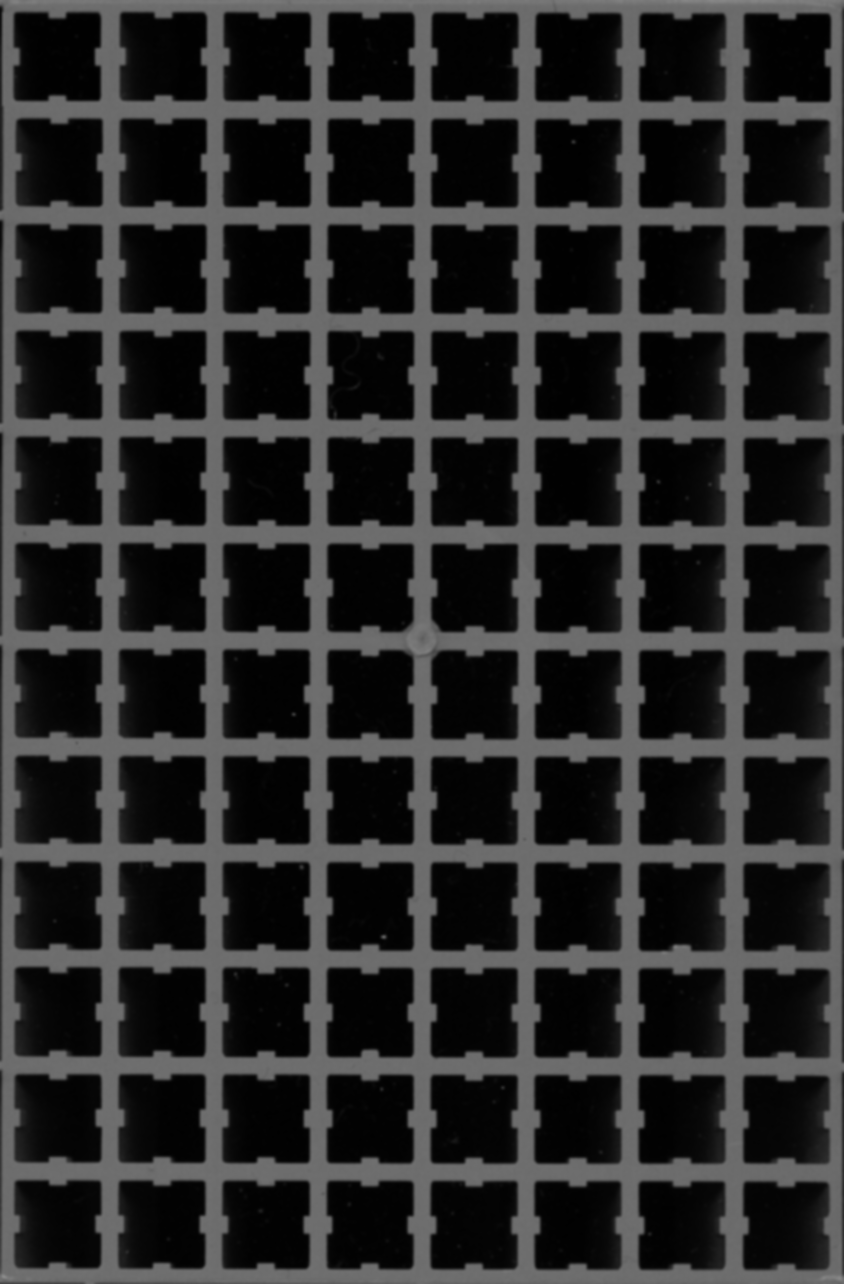
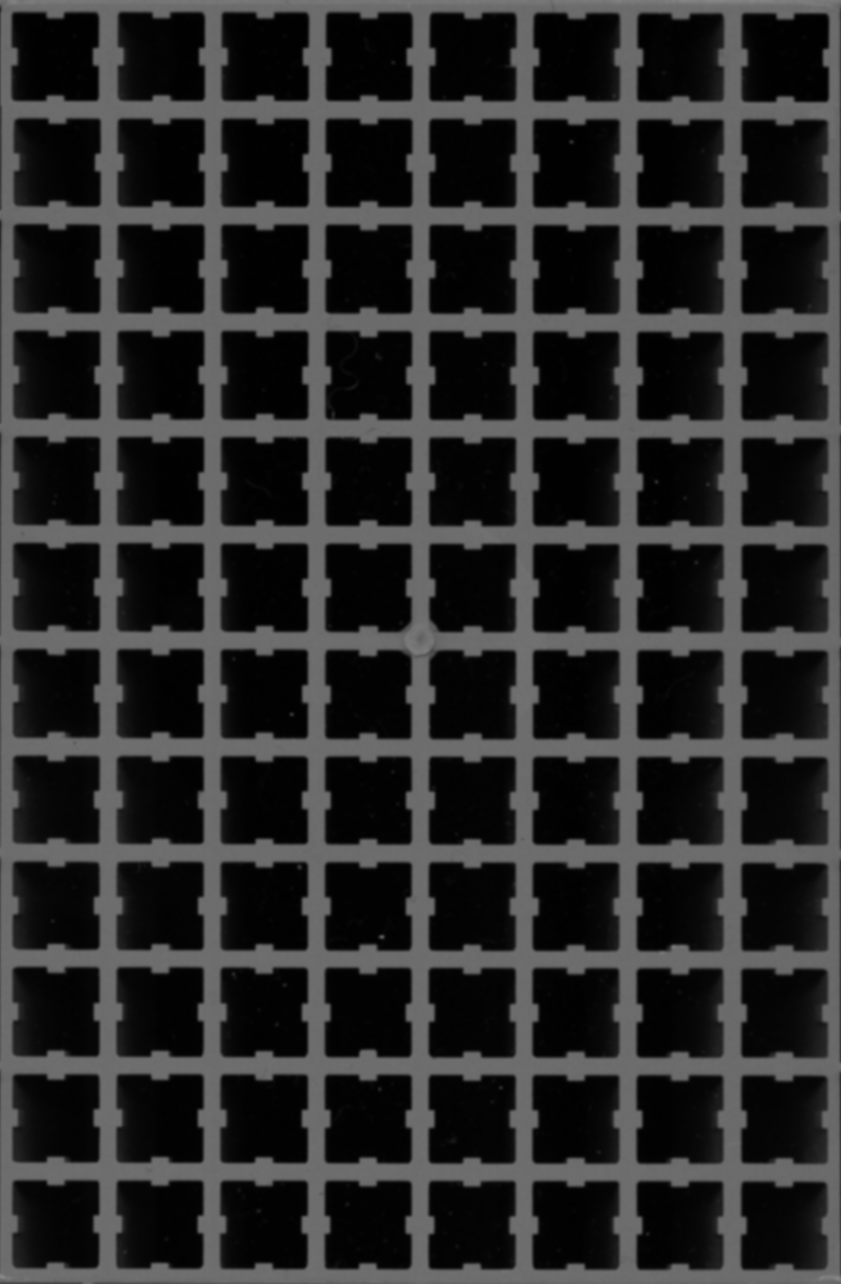
better handling of multiple resolutions. all supported resolutions not generated at once

diff --git a/scan.py b/scan.py
@@ -51,10 +51,6 @@ class ScanControl(threading.Thread):
       self.lock = threading.RLock()
       self.event = event
 
-#      if decode.findcode.low_res == True:
-#          self.res = 300
-#      else:
-
       self.forceRepeat = False
       self.getFilenames()
       self.dm = decode.DMDecoder(self.myDir,self.files)#,res = self.res)
@@ -66,7 +62,6 @@ class ScanControl(threading.Thread):
       self.isScanning = False
       self.calibrating= False
 
-      self.res = -1
       g=globals()
       res,g['getWell'], g['getFileFromWell'] = Config.readInitialConfig('avision-600')
 
@@ -87,10 +82,8 @@ class ScanControl(threading.Thread):
    def setResFromNext(self):
       self.acquire()
       if self.nextRes != None:
-         self.res = self.nextRes
-         Config.res = self.res
-         Config.currentKey = Config.scanner + '-' +str(Config.res)
-         if self.res == 300:
+         Config.setRes(self.nextRes)
+         if Config.res == 300:
             low_res = True
          else:
             low_res = False
@@ -99,9 +92,7 @@ class ScanControl(threading.Thread):
       self.release()
 
    def setNextRes(self,res):
-      if res == self.res:
-         return False
-      if res in [300,600]:
+      if res in Config.validResolutions():
          self.acquire()
          self.nextRes = res
          self.release()
@@ -182,12 +173,12 @@ class ScanControl(threading.Thread):
    def getStatus(self):
       self.acquire()
       if self.nextRes or self.nextScanner:
-         nr = self.nextRes or self.res
+         nr = self.nextRes or Config.res
          name = self.nextScanner != None and self.scannerNames[self.nextScanner] or "same"
          next = " -> %s %ddpi\n"%(name,nr)
       else:
          next = "\n"
-      c = self.scannerNames[self.whichScanner]+" "+str(self.res)+"dpi"+next
+      c = self.scannerNames[self.whichScanner]+" as "+Config.scanner+" at "+str(Config.res)+"dpi"+next
       c += self.status[:]
       self.release()
       return c
@@ -260,12 +251,8 @@ class ScanControl(threading.Thread):
       self.updateStatus("calibrating\n\n")
       x,y,dx,dy = decode.findcode.calibrate("/tmp/calib1.tif")
       print (x,y,dx,dy)
-      key = 'custom-%d'%self.res
-      Config.data[key] = Config.generateData(self.res,dx,dy,x,y)
-      Config.switch(key)
-      Config.offset = [0,0]
-
       self.acquire()
+      Config.switch(Config.createCalibratedConfig(dx,dy,x,y))
       self.calibrating = False
       self.release()
 
@@ -288,13 +275,13 @@ class ScanControl(threading.Thread):
           return True
    
    def _shell_obtain_fullscan(self):
-      proc=Popen(['scanimage','-d',self.scanners[self.whichScanner]]+('--batch=/tmp/calib%d.tif --batch-count=1 --resolution '+str(self.res)+' --format=tiff ').split(),stdout=PIPE,stderr=PIPE)
+      proc=Popen(['scanimage','-d',self.scanners[self.whichScanner]]+('--batch=/tmp/calib%d.tif --batch-count=1 --resolution '+str(Config.res)+' --format=tiff ').split(),stdout=PIPE,stderr=PIPE)
       out,err = proc.communicate()
       self.updateStatus(out+"\n"+err+'\n')
 
 
    def _shell_obtain_images(self,cropA,cropB,position):
-      proc=Popen(['scanimage','-d',self.scanners[self.whichScanner]]+('--batch=/tmp/batch%d.tif --batch-count=1 --resolution '+str(self.res)+' --format=tiff '+position).split(),stdout=PIPE,stderr=PIPE)
+      proc=Popen(['scanimage','-d',self.scanners[self.whichScanner]]+('--batch=/tmp/batch%d.tif --batch-count=1 --resolution '+str(Config.res)+' --format=tiff '+position).split(),stdout=PIPE,stderr=PIPE)
       out,err = proc.communicate()
 
       self.updateStatus(out+"\n"+err+'\n')
@@ -309,7 +296,7 @@ class ScanControl(threading.Thread):
       # if i != None:
       #    i.save('/tmp/batch2.tif')
 
-      density = "-density %d "%self.res
+      density = "-density %d "%Config.res
       
       proc=Popen(('convert /tmp/batch1.tif '+density+cropA(Config.offset)+' /tmp/inner1.tif').split(),stdout=PIPE,stderr=PIPE)
       out,err = proc.communicate()

diff --git a/config.py b/config.py
@@ -48,11 +48,33 @@ class Config():
 
    @staticmethod
    def generateData(res,dx,dy,x,y):
-      if res == 300:
-         crop = '-crop 8x12-17-19@! -shave 10x10'
+      factor = res / 300
+      crop = '-crop 8x12-%d-%d@! -shave %dx%d'%(17*factor,19*factor,10*factor,10*factor)
+      return [generateCropA(dx*factor,dy*factor,x*factor,y*factor),crop,'']
+
+   @staticmethod
+   def createCalibratedConfig(dx,dy,x,y):
+      for res in Config.validResolutions():
+         Config.data['custom-'+str(res)] = Config.generateData(res,dx,dy,x,y)
+      return 'custom-%d'%Config.res
+   @staticmethod
+   def validResolutions():
+      return [300,600]
+
+   @staticmethod
+   def makeKey():
+      key = Config.scanner + '-'+str(Config.res)
+      if Config.has_key(key):
+         Config.currentKey = key
       else:
-         crop = '-crop 8x12-34-38@! -shave 20x20'
-      return [generateCropA(dx,dy,x,y),crop,'']
+         raise KeyError(key+" unknown")
+
+   @staticmethod
+   def setRes(res):
+      Config.res = res
+      Config.makeKey()
+#      Config.makeKey(res = res)
+
 
    @staticmethod
    def saveFile():
@@ -142,9 +164,9 @@ class Config():
          Config.switch(key)
          Config.saveFile()
       else:
-          Config.currentKey = Config.scanner + '-'+str(Config.res)
-          Config.setMethods()
-          print 'Loaded configuration'
+         Config.makeKey()
+         Config.setMethods()
+         print 'Loaded configuration'
 
       return Config.res, Config.getWell, Config.getFileFromWell
 
@@ -189,7 +211,7 @@ class Config():
    # deprecated
    @staticmethod
    def configByScannerAndRes(scanner,res):   
-      #maybe remember last settigns and only return those unless some new change.
+      #maybe remember last settings and only return those unless some new change.
       # can split this into two functions, init and gette
       key = scanner+"-"+str(res)
 

diff --git a/findcode.py b/findcode.py
@@ -257,10 +257,10 @@ def calibrate(fn):
     if not low_res:
         c = cv.CreateImage( ( (c_image.width+1)/2, (c_image.height+1)/2 ), c_image.depth, 1 );
         cv.Resize(c_image,c)
-        retVal = [2*i for i in templateMatch(c,False,"template_calib.png")]
+#        retVal = [2*i for i in templateMatch(c,False,"template_calib.png")]
     else:
         c = c_image
-        retVal = templateMatch(c,False,"template_calib.png")
+    retVal = templateMatch(c,False,"template_calib.png")
     return retVal
 
 def templateMatch(img,do_display,fn = "template3.png", margin = 0,display_img = None):

diff --git a/serv.py b/serv.py
@@ -98,7 +98,7 @@ class MyHandler(BaseHTTPRequestHandler):
                status = ""
                if self.path[8:17] == "calibrate":
                    MyHandler.sc.calibrateNext()
-                   status = ("will soon calibrate...")
+                   status = ("calibrating...")
                if self.path[8:11] == "res":
                    which = self.path[11:].strip('/')
                    if which.isdigit() and MyHandler.sc.setNextRes(int(which)):
